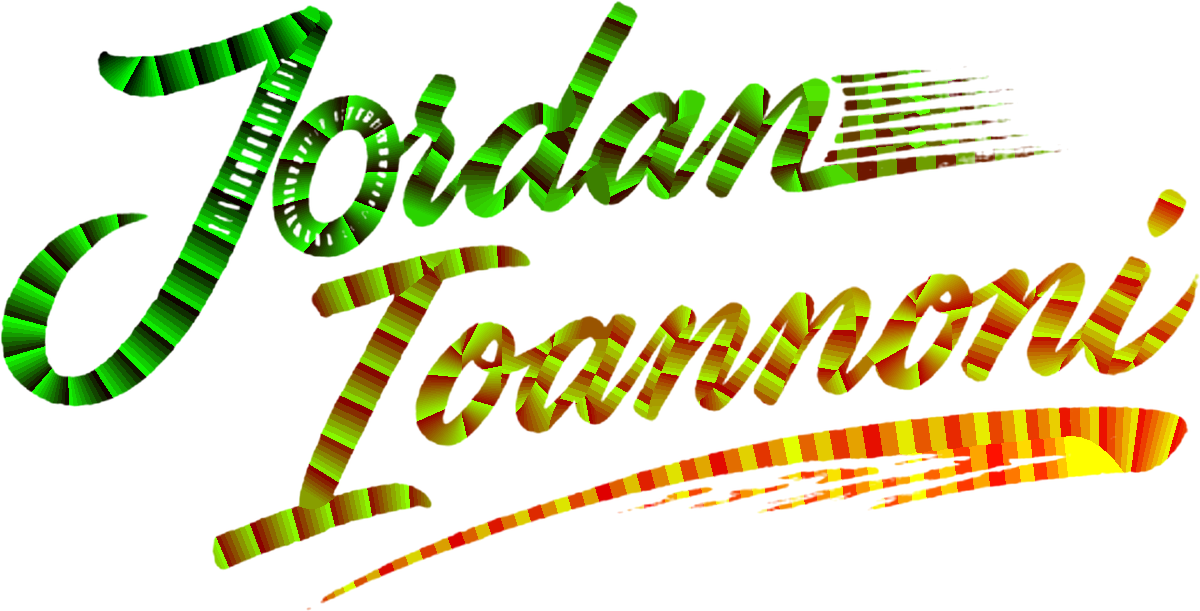
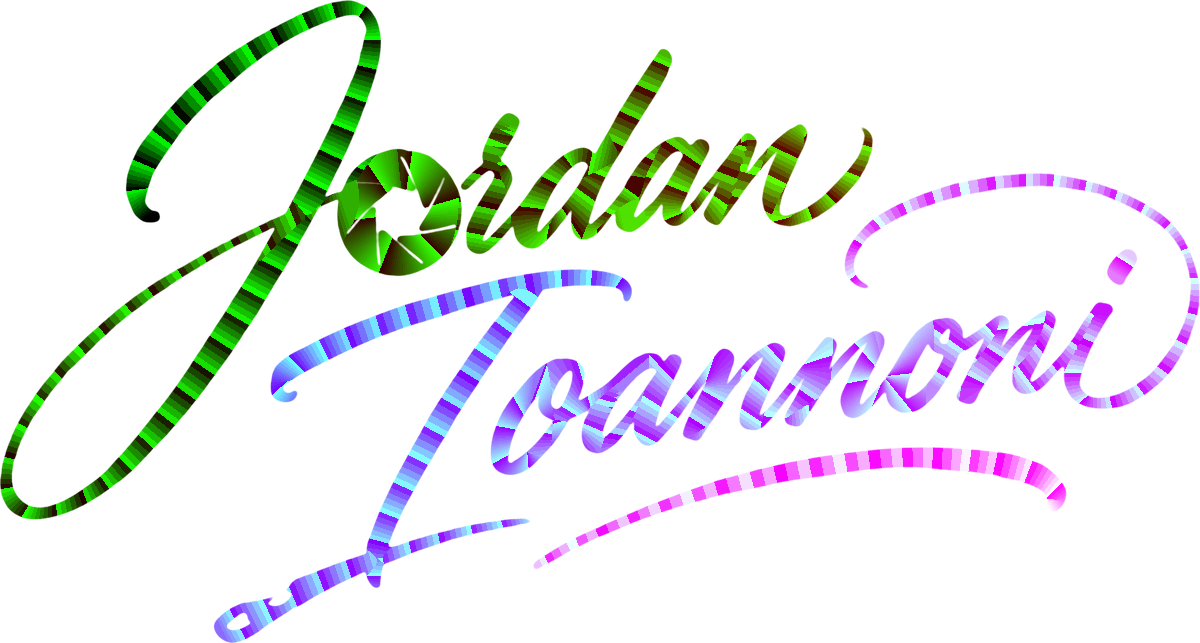
Switch hero to signature concept 01 with gradient Ioannoni
Claude-Session: https://claude.ai/code/session_01T35U9MpPxYhzLjrzjQxgWA

diff --git a/index.html b/index.html
@@ -36,10 +36,8 @@ h1{font-size:clamp(44px,10vw,108px)}h2{font-size:clamp(32px,5.6vw,60px)}
 .lead{max-width:640px;margin:0 auto 18px;color:var(--mute)}
 .links{display:flex;gap:26px;justify-content:center;font-size:20px}
 .vh{position:absolute;width:1px;height:1px;overflow:hidden;clip:rect(0 0 0 0);white-space:nowrap}
-.sigw{position:relative;width:min(560px,82vw);aspect-ratio:1200/611;margin:6px auto 4px}
+.sigw{position:relative;width:min(620px,86vw);aspect-ratio:1200/643;margin:6px auto 4px}
 .sigc{display:block;width:100%;height:100%}
-@media (prefers-color-scheme:dark){:root:not([data-theme="light"]) .sigc{filter:invert(1)}}
-:root[data-theme="dark"] .sigc{filter:invert(1)}
 .grad{background:linear-gradient(90deg,#ff9a3c,#ff3d77,#7a5cff,#ff9a3c);background-size:300% 100%;-webkit-background-clip:text;background-clip:text;color:transparent;animation:flow 8s linear infinite}
 @keyframes flow{to{background-position:300% 0}}
 .hero{padding-top:64px;min-height:105vh;overflow:hidden}
@@ -200,7 +198,7 @@ footer{background:var(--alt);color:var(--mute);font-size:12px;padding:24px 20px 
 <section class="hero c" id="top">
   <div id="ht">
     <p class="eyebrow rv">St. Catharines, ON · Niagara College</p>
-    <h1 class="rv sig" style="--d:.1s"><span class="vh">Jordan Ioannoni</span><span class="sigw" id="sigw" aria-hidden="true" style="display:block"><canvas class="sigc" width="1200" height="611"></canvas></span></h1>
+    <h1 class="rv sig" style="--d:.1s"><span class="vh">Jordan Ioannoni</span><span class="sigw" id="sigw" aria-hidden="true" style="display:block"><canvas class="sigc" width="1200" height="643"></canvas></span></h1>
     <p class="sub rv" style="--d:.25s">Operations. Systems. Photography.</p>
     <p class="lead rv" style="--d:.35s">A Niagara College business student who plans routes, tracks assets in Excel, knows the mechanics of the vehicles that move them, and has shot tournament sports since 2017.</p>
     <a class="avail rv" style="--d:.4s" href="#contact" data-topic="Summer logistics role">Open to summer logistics and dispatch roles</a>
@@ -366,10 +364,24 @@ tick();
   img.onload = () => {
     const W = img.width, H = img.height; cv.width = W; cv.height = H;
     ctx.drawImage(img, 0, 0); const src = ctx.getImageData(0, 0, W, H).data; ctx.clearRect(0, 0, W, H);
-    const ink = [], tm = [];
-    for (let i = 0, n = W * H; i < n; i++) { if (src[i * 4 + 3]) { ink.push(i); tm.push(((src[i * 4] << 8) | src[i * 4 + 1]) / 65535); } }
+    const ink = [], tm = [], reg = []; let x0 = W, x1 = 0;
+    for (let i = 0, n = W * H; i < n; i++) if (src[i * 4 + 3]) {
+      ink.push(i); tm.push(((src[i * 4] << 8) | src[i * 4 + 1]) / 65535);
+      const r = src[i * 4 + 2] > 127; reg.push(r); if (r) { const x = i % W; if (x < x0) x0 = x; if (x > x1) x1 = x; }
+    }
     const ord = ink.map((_, k) => k).sort((a, b) => tm[a] - tm[b]);
     const out = ctx.createImageData(W, H), od = out.data, F = .025;
+    const stops = [[255, 154, 60], [255, 61, 119], [122, 92, 255]];
+    const grad = f => { const s = f < .5 ? 0 : 1, g = f < .5 ? f * 2 : f * 2 - 1, A = stops[s], B = stops[s + 1]; return [A[0] + (B[0] - A[0]) * g, A[1] + (B[1] - A[1]) * g, A[2] + (B[2] - A[2]) * g]; };
+    for (let k = 0; k < ink.length; k++) if (reg[k]) { const i = ink[k], c = grad(((i % W) - x0) / Math.max(1, x1 - x0)); od[i * 4] = c[0]; od[i * 4 + 1] = c[1]; od[i * 4 + 2] = c[2]; }
+    const paintInk = () => {
+      const m = getComputedStyle(document.body).color.match(/\d+/g).map(Number);
+      for (let k = 0; k < ink.length; k++) if (!reg[k]) { const i = ink[k]; od[i * 4] = m[0]; od[i * 4 + 1] = m[1]; od[i * 4 + 2] = m[2]; }
+      ctx.putImageData(out, 0, 0);
+    };
+    paintInk();
+    document.getElementById("th").addEventListener("click", () => setTimeout(paintInk, 0));
+    matchMedia("(prefers-color-scheme: dark)").addEventListener("change", () => setTimeout(paintInk, 0));
     let done = 0;
     const reveal = t => {
       while (done < ord.length && tm[ord[done]] <= t - F) { const i = ink[ord[done++]]; od[i * 4 + 3] = src[i * 4 + 3]; }
